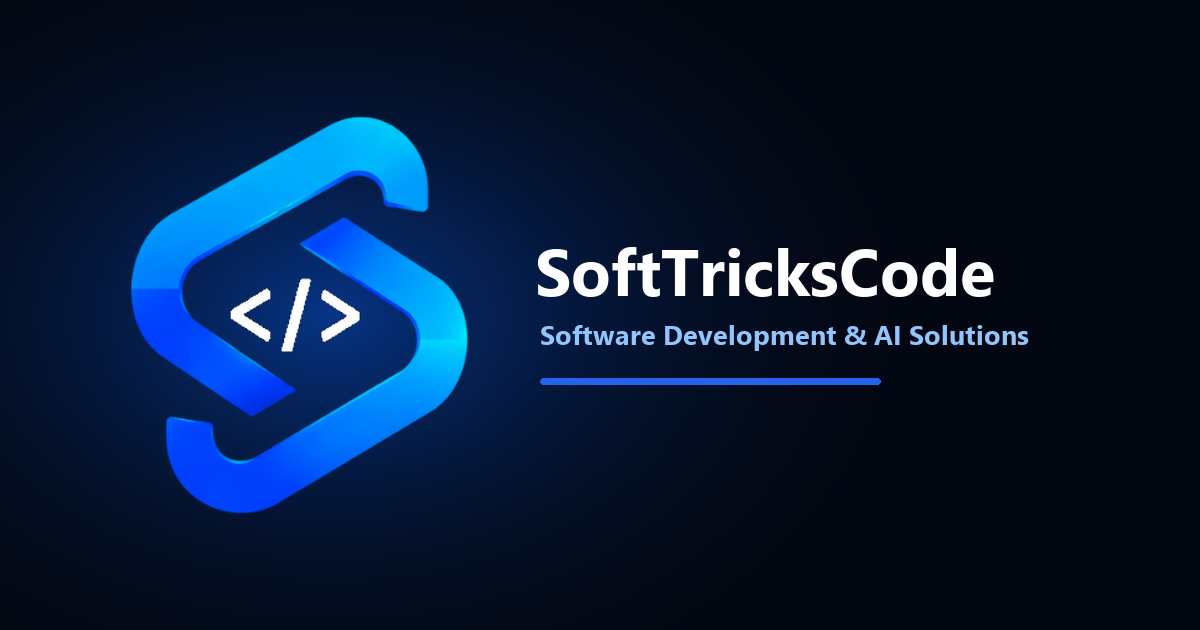
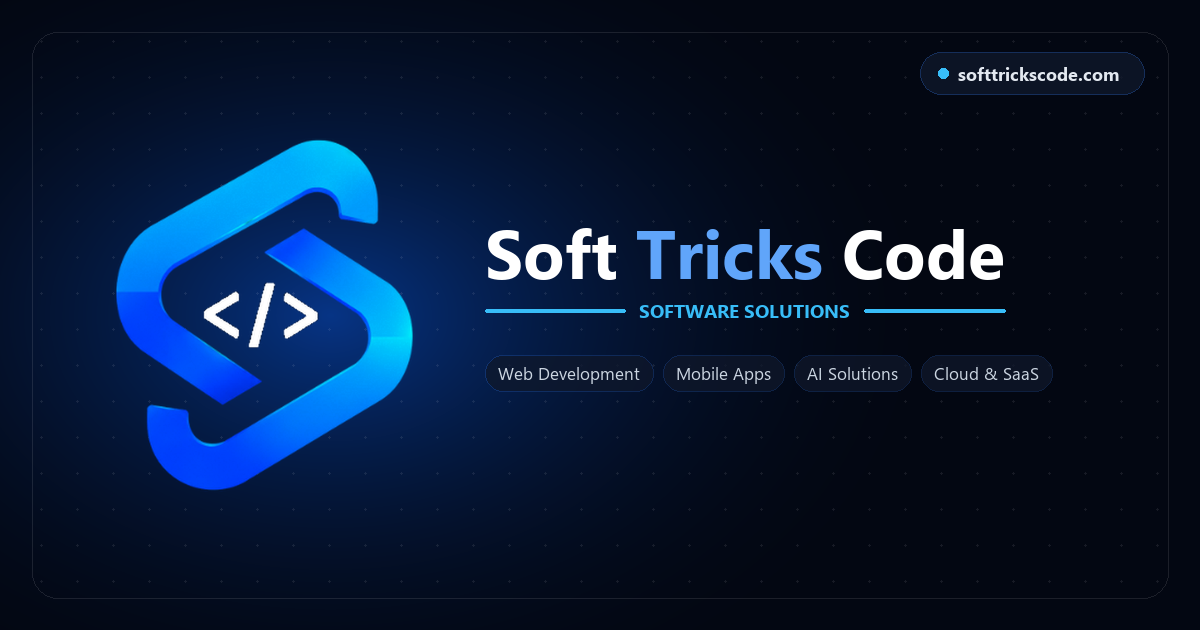
Website Updated

diff --git a/src/components/ui/Seo.jsx b/src/components/ui/Seo.jsx
@@ -1,27 +1,28 @@
 import { Helmet } from 'react-helmet-async';
 import { SEO_CONFIG, SITE_URL } from '../../constants/seo';
 
-const buildAbsoluteUrl = (pathname) => {
-  const cleanPath = pathname?.startsWith('/') ? pathname : `/${pathname || ''}`;
-  return `${SITE_URL.replace(/\/$/, '')}${cleanPath}`;
-};
+function buildAbsoluteUrl(path = '') {
+  if (!path) return SITE_URL;
+  if (path.startsWith('http://') || path.startsWith('https://')) return path;
+  return `${SITE_URL}${path.startsWith('/') ? path : `/${path}`}`;
+}
 
 export default function Seo({
   title,
   description,
-  pathname = '/',
-  image,
   keywords,
-  author,
+  image,
+  pathname = '',
   type = 'website',
-  robots = 'index, follow',
   articlePublishedTime,
   articleModifiedTime,
+  author,
+  robots = 'index, follow',
 }) {
-  const pageTitle = title?.trim() || SEO_CONFIG.defaultTitle;
-  const pageDescription = description?.trim() || SEO_CONFIG.defaultDescription;
-  const pageKeywords = keywords?.trim() || SEO_CONFIG.keywords;
-  const pageAuthor = author?.trim() || SEO_CONFIG.author;
+  const pageTitle = title || SEO_CONFIG.defaultTitle;
+  const pageDescription = description || SEO_CONFIG.defaultDescription;
+  const pageKeywords = keywords || SEO_CONFIG.keywords;
+  const pageAuthor = author || SEO_CONFIG.author;
 
   const canonicalUrl = buildAbsoluteUrl(pathname);
 
@@ -34,7 +35,7 @@ export default function Seo({
   const organizationLd = {
     '@context': 'https://schema.org',
     '@type': 'Organization',
-    name: 'SoftTricksCode',
+    name: 'Soft Tricks Code',
     url: SITE_URL,
     logo: SEO_CONFIG.logo,
     description:
@@ -57,7 +58,7 @@ export default function Seo({
   const localBusinessLd = {
     '@context': 'https://schema.org',
     '@type': 'ProfessionalService',
-    name: 'SoftTricksCode',
+    name: 'Soft Tricks Code',
     url: SITE_URL,
     logo: SEO_CONFIG.logo,
     email: SEO_CONFIG.contactEmail,
@@ -67,21 +68,21 @@ export default function Seo({
   };
 
   const websiteLd = {
-  '@context': 'https://schema.org',
-  '@type': 'WebSite',
-  name: SEO_CONFIG.siteName,
-  alternateName: 'SoftTricksCode',
-  url: SITE_URL,
-  description: SEO_CONFIG.defaultDescription,
-  publisher: {
-    '@type': 'Organization',
+    '@context': 'https://schema.org',
+    '@type': 'WebSite',
     name: SEO_CONFIG.siteName,
-    logo: {
-      '@type': 'ImageObject',
-      url: SEO_CONFIG.logo,
+    alternateName: 'Soft Tricks Code',
+    url: SITE_URL,
+    description: SEO_CONFIG.defaultDescription,
+    publisher: {
+      '@type': 'Organization',
+      name: SEO_CONFIG.siteName,
+      logo: {
+        '@type': 'ImageObject',
+        url: SEO_CONFIG.logo,
+      },
     },
-  },
-};
+  };
 
   const webpageLd = {
     '@context': 'https://schema.org',
@@ -141,23 +142,27 @@ export default function Seo({
       <meta property="og:site_name" content={SEO_CONFIG.siteName} />
       <meta property="og:locale" content="en_US" />
 
-      {/* Twitter */}
+      {/* Twitter Card */}
       <meta name="twitter:card" content="summary_large_image" />
+      <meta name="twitter:site" content={SEO_CONFIG.twitterHandle} />
+      <meta name="twitter:creator" content={SEO_CONFIG.twitterHandle} />
       <meta name="twitter:title" content={pageTitle} />
       <meta name="twitter:description" content={pageDescription} />
       <meta name="twitter:image" content={imageUrl} />
-      <meta name="twitter:image:alt" content={`${SEO_CONFIG.siteName} brand image`} />
-      <meta name="twitter:site" content={SEO_CONFIG.twitterHandle} />
-      <meta name="twitter:creator" content={SEO_CONFIG.twitterHandle} />
+      <meta name="twitter:image:alt" content={`${SEO_CONFIG.siteName} preview`} />
 
-      {/* Structured Data */}
+      {/* Structured Data (JSON-LD) */}
       <script type="application/ld+json">
-        {JSON.stringify([
-          organizationLd,
-          localBusinessLd,
-          websiteLd,
-          webpageLd,
-        ])}
+        {JSON.stringify(organizationLd)}
+      </script>
+      <script type="application/ld+json">
+        {JSON.stringify(localBusinessLd)}
+      </script>
+      <script type="application/ld+json">
+        {JSON.stringify(websiteLd)}
+      </script>
+      <script type="application/ld+json">
+        {JSON.stringify(webpageLd)}
       </script>
     </Helmet>
   );

diff --git a/index.html b/index.html
@@ -13,14 +13,14 @@
   <!-- PWA -->
   <link rel="manifest" href="/manifest.webmanifest" />
   <meta name="theme-color" content="#030712" />
-  <meta name="application-name" content="SoftTricksCode" />
-  <meta name="apple-mobile-web-app-title" content="SoftTricksCode" />
+  <meta name="application-name" content="Soft Tricks Code" />
+  <meta name="apple-mobile-web-app-title" content="Soft Tricks Code" />
 
   <!-- Viewport -->
   <meta name="viewport" content="width=device-width, initial-scale=1.0, viewport-fit=cover" />
 
   <!-- SEO -->
-  <title>SoftTricksCode | Software Services & AI Solutions, Web Development</title>
+  <title>Soft Tricks Code | Software Services & AI Solutions, Web Development</title>
 
   <meta name="description"
     content="Soft Tricks Code provides Web Development, AI Solutions, SaaS Development, Full Stack Development, Cloud Services, UI/UX Design, and Software Consulting for startups and enterprises." />
@@ -37,29 +37,29 @@
   <!-- Open Graph -->
   <meta property="og:type" content="website" />
   <meta property="og:site_name" content="Soft Tricks Code" />
-  <meta property="og:title" content="SoftTricksCode | Software Services & AI Solutions, Web Development" />
+  <meta property="og:title" content="Soft Tricks Code | Software Services & AI Solutions, Web Development" />
   <meta property="og:description"
     content="Soft Tricks Code helps startups and enterprises build modern websites, AI-powered applications, SaaS products, and scalable software solutions." />
   <meta property="og:url" content="https://softtrickscode.com/" />
   <meta property="og:image" content="https://softtrickscode.com/og-image.png" />
   <meta property="og:image:width" content="1200" />
   <meta property="og:image:height" content="630" />
-  <meta property="og:image:alt" content="SoftTricksCode — Software Development and AI Solutions" />
+  <meta property="og:image:alt" content="Soft Tricks Code — Software Development and AI Solutions" />
 
   <!-- Twitter -->
   <meta name="twitter:card" content="summary_large_image" />
-  <meta name="twitter:title" content="SoftTricksCode | Software Services & AI Solutions, Web Development" />
+  <meta name="twitter:title" content="Soft Tricks Code | Software Services & AI Solutions, Web Development" />
   <meta name="twitter:description"
     content="Soft Tricks Code helps startups and enterprises build modern websites, AI-powered applications, SaaS products, and scalable software solutions." />
   <meta name="twitter:image" content="https://softtrickscode.com/og-image.png" />
-  <meta name="twitter:image:alt" content="SoftTricksCode — Software Development and AI Solutions" />
+  <meta name="twitter:image:alt" content="Soft Tricks Code — Software Development and AI Solutions" />
 
   <!-- Organization Schema -->
   <script type="application/ld+json">
   {
     "@context": "https://schema.org",
     "@type": "Organization",
-    "name": "SoftTricksCode",
+    "name": "Soft Tricks Code",
     "url": "https://softtrickscode.com",
     "logo": "https://softtrickscode.com/logo-mark.png",
     "description": "Web Development, AI Solutions, SaaS Development, Full Stack Development, Cloud Services and Software Consulting"

diff --git a/src/constants/seo.js b/src/constants/seo.js
@@ -9,18 +9,18 @@ export const SITE_URL =
   "https://softtrickscode.com";
 
 export const SEO_CONFIG = {
-  siteName: "SoftTricksCode",
+  siteName: "Soft Tricks Code",
 
   defaultTitle:
-    "SoftTricksCode | Software Development, AI Solutions, Web & Mobile App Development",
+    "Soft Tricks Code | Software Development, AI Solutions, Web & Mobile App Development",
 
   defaultDescription:
-    "SoftTricksCode is a software development company providing web development, mobile app development, AI solutions, cloud services, SaaS products, UI/UX design, and custom software solutions for startups and businesses.",
+    "Soft Tricks Code is a software development company providing web development, mobile app development, AI solutions, cloud services, SaaS products, UI/UX design, and custom software solutions for startups and businesses.",
 
   keywords:
     "Software Development Company, Web Development, Mobile App Development, AI Solutions, SaaS Development, Cloud Services, Full Stack Development, UI UX Design, Software Consulting, Custom Software Development",
 
-  author: "SoftTricksCode",
+  author: "Soft Tricks Code",
 
   socialImage: `${SITE_URL}${BRAND_ASSETS.socialImage}`,
 
@@ -52,7 +52,7 @@ export const SEO_CONFIG = {
   organizationSchema: {
     "@context": "https://schema.org",
     "@type": "Organization",
-    name: "SoftTricksCode",
+    name: "Soft Tricks Code",
     url: "https://softtrickscode.com",
     logo: `${SITE_URL}${BRAND_ASSETS.logo}`,
     description:

diff --git a/src/data/testimonials.js b/src/data/testimonials.js
@@ -6,7 +6,7 @@ export const testimonials = [
     avatar: "https://encrypted-tbn0.gstatic.com/images?q=tbn:ANd9GcThAgZRunSqQ-AjC__ek3T4u8VKIQvkkFN8fmyMfz678Q&s=10",
     rating: 5,
     quote:
-      "SoftTricksCode delivered our hospital management system ahead of schedule. Exceptional quality and communication throughout.",
+      "Soft Tricks Code delivered our hospital management system ahead of schedule. Exceptional quality and communication throughout.",
   },
   {
     id: 2,
@@ -16,7 +16,7 @@ export const testimonials = [
       "https://hotprintdesign.com/wp-content/uploads/2019/02/testimonial-avatar-3.jpg",
     rating: 5,
     quote:
-      "SoftTricksCode delivered our e-commerce website for men ahead of schedule. Exceptional quality and communication throughout.",
+      "Soft Tricks Code delivered our e-commerce website for men ahead of schedule. Exceptional quality and communication throughout.",
   },
   {
     id: 3,
@@ -26,7 +26,7 @@ export const testimonials = [
       "https://thearoralawfirm.com/wp-content/uploads/2021/01/testimonials_man3.png",
     rating: 5,
     quote:
-      "SoftTricksCode delivered our computer shop website ahead of schedule.The website is user-friendly and the team is very responsive. Highly recommend SoftTricksCode.",
+      "Soft Tricks Code delivered our computer shop website ahead of schedule. The website is user-friendly and the team is very responsive. Highly recommend Soft Tricks Code.",
   },
   {
     id: 4,

diff --git a/src/components/sections/About.jsx b/src/components/sections/About.jsx
@@ -91,7 +91,7 @@ export default function About({ showTeamLink = true, pageMode = false }) {
                     <div className="min-w-0">
                       <p className="text-sm font-semibold text-stc-black">{founder.name}</p>
                       <p className="text-xs text-stc-muted">
-                        {founder.id === 'saif' ? 'Founder & CEO' : 'Co-Founder'}, SoftTricksCode
+                        {founder.id === 'saif' ? 'Founder & CEO' : 'Co-Founder'}, Soft Tricks Code
                       </p>
                     </div>
                   </div>
@@ -109,7 +109,7 @@ export default function About({ showTeamLink = true, pageMode = false }) {
             </h2>
 
             <p className="mt-5 text-base leading-relaxed text-stc-muted">
-              Founded by {saif.name} and co-founder {ashwini.name}, SoftTricksCode helps startups
+              Founded by {saif.name} and co-founder {ashwini.name}, Soft Tricks Code helps startups
               and enterprises build modern websites, mobile apps, AI solutions, and custom software
               — from MVPs to enterprise platforms.
             </p>

diff --git a/src/components/sections/WhyChoose.jsx b/src/components/sections/WhyChoose.jsx
@@ -34,7 +34,7 @@ export default function WhyChoose() {
           viewport={{ once: true }}
           className="mb-10 max-w-2xl lg:mb-12"
         >
-          <SectionBadge className="mb-4">Why SoftTricksCode</SectionBadge>
+          <SectionBadge className="mb-4">Why Soft Tricks Code</SectionBadge>
           <h2 className="font-serif text-3xl font-bold leading-tight text-stc-black sm:text-4xl lg:text-[2.5rem]">
             Why Choose Us for Software Solutions
           </h2>
@@ -56,7 +56,7 @@ export default function WhyChoose() {
                 <source srcSet="/why-choose-team.webp" type="image/webp" />
                 <img
                   src="/why-choose-team.jpg"
-                  alt="SoftTricksCode team collaborating on software projects"
+                  alt="Soft Tricks Code team collaborating on software projects"
                   width="640"
                   height="568"
                   className="block h-full min-h-[320px] w-full object-cover object-center sm:min-h-[380px] lg:min-h-[420px]"

diff --git a/src/components/chat/ChatWidget.jsx b/src/components/chat/ChatWidget.jsx
@@ -63,7 +63,7 @@ function ChatFab({ onClick }) {
 
 export default function ChatWidget({ open, onOpenChange }) {
   const [messages, setMessages] = useState([
-    { from: 'bot', text: "Hi! 👋 I'm SoftTricksCode Assistant. How can I help you today?" },
+    { from: 'bot', text: "Hi! 👋 I'm Soft Tricks Code Assistant. How can I help you today?" },
   ]);
   const [input, setInput] = useState('');
   const bottomRef = useRef(null);
@@ -122,7 +122,7 @@ export default function ChatWidget({ open, onOpenChange }) {
           >
             <div className="flex items-center justify-between border-b border-white/10 bg-stc-primary/20 px-4 py-3">
               <div>
-                <p className="font-serif font-bold text-white">SoftTricksCode</p>
+                <p className="font-serif font-bold text-white">Soft Tricks Code</p>
                 <p className="text-xs text-green-400">● Online — replies within 24h</p>
               </div>
               <button

diff --git a/src/components/sections/Hero.jsx b/src/components/sections/Hero.jsx
@@ -16,7 +16,7 @@ export default function Hero() {
         </h1>
 
         <p className="mx-auto mt-5 max-w-2xl text-base leading-relaxed text-stc-gray sm:text-lg">
-          Innovate with SoftTricksCode — your software partner for websites, mobile apps, AI tools,
+          Innovate with Soft Tricks Code — your software partner for websites, mobile apps, AI tools,
           and custom platforms across healthcare, agriculture, education, and more.
         </p>
 
@@ -34,7 +34,7 @@ export default function Hero() {
         <div className="relative overflow-hidden rounded-4xl border border-white/10 shadow-fly-lg sm:rounded-5xl">
           <img
             src={HERO_IMAGE}
-            alt="SoftTricksCode team collaborating on software projects"
+            alt="Soft Tricks Code team collaborating on software projects"
             width="1200"
             height="600"
             className="aspect-[16/9] w-full object-cover sm:aspect-[21/9]"

diff --git a/src/pages/Home.jsx b/src/pages/Home.jsx
@@ -16,8 +16,8 @@ export default function Home() {
   return (
     <>
       <Seo
-        title="SoftTricksCode | Software Development, AI Solutions, Web & Mobile App Development"
-        description="SoftTricksCode is a leading software company providing website development, mobile app development, AI solutions, cloud services, SaaS products, and custom software development for startups and enterprises."
+        title="Soft Tricks Code | Software Development, AI Solutions, Web & Mobile App Development"
+        description="Soft Tricks Code is a leading software company providing website development, mobile app development, AI solutions, cloud services, SaaS products, and custom software development for startups and enterprises."
         pathname="/"
       />
 

diff --git a/src/components/sections/Testimonials.jsx b/src/components/sections/Testimonials.jsx
@@ -18,7 +18,7 @@ export default function Testimonials() {
             Real Experiences Shared By Our Clients
           </h2>
           <p className="mx-auto mt-4 max-w-md text-sm leading-relaxed text-slate-800 sm:text-base lg:mx-0">
-            Our clients share real experiences working with SoftTricksCode — showcasing the quality,
+            Our clients share real experiences working with Soft Tricks Code — showcasing the quality,
             reliability, and innovative solutions we deliver across industries.
           </p>
           <div className="mt-8 flex flex-col items-center justify-center gap-3 sm:flex-row lg:justify-start">

diff --git a/src/components/layout/Footer.jsx b/src/components/layout/Footer.jsx
@@ -204,7 +204,7 @@ export default function Footer() {
           </div>
 
           <div className="mt-12 flex flex-col items-center justify-between gap-4 border-t border-white/10 pt-8 text-center text-xs text-stc-gray sm:flex-row sm:text-left sm:text-sm">
-            <p>© {new Date().getFullYear()} SoftTricksCode. All Rights Reserved.</p>
+            <p>© {new Date().getFullYear()} Soft Tricks Code. All Rights Reserved.</p>
             <div className="flex gap-4">
               <Link to="/contact" className="hover:text-white">
                 Privacy Policy

diff --git a/src/components/ui/Preloader.jsx b/src/components/ui/Preloader.jsx
@@ -52,7 +52,7 @@ export default function Preloader({ onFinish, minDuration = 1000 }) {
               <div className="absolute -inset-3 rounded-2xl bg-stc-primary/30 blur-xl animate-pulse" />
               <img
                 src={BRAND_ASSETS.logoOnDark100}
-                alt="SoftTricksCode"
+                alt="Soft Tricks Code"
                 width={72}
                 height={72}
                 className="relative h-16 w-16 sm:h-20 sm:w-20 object-contain drop-shadow-[0_0_20px_rgba(59,130,246,0.5)]"
